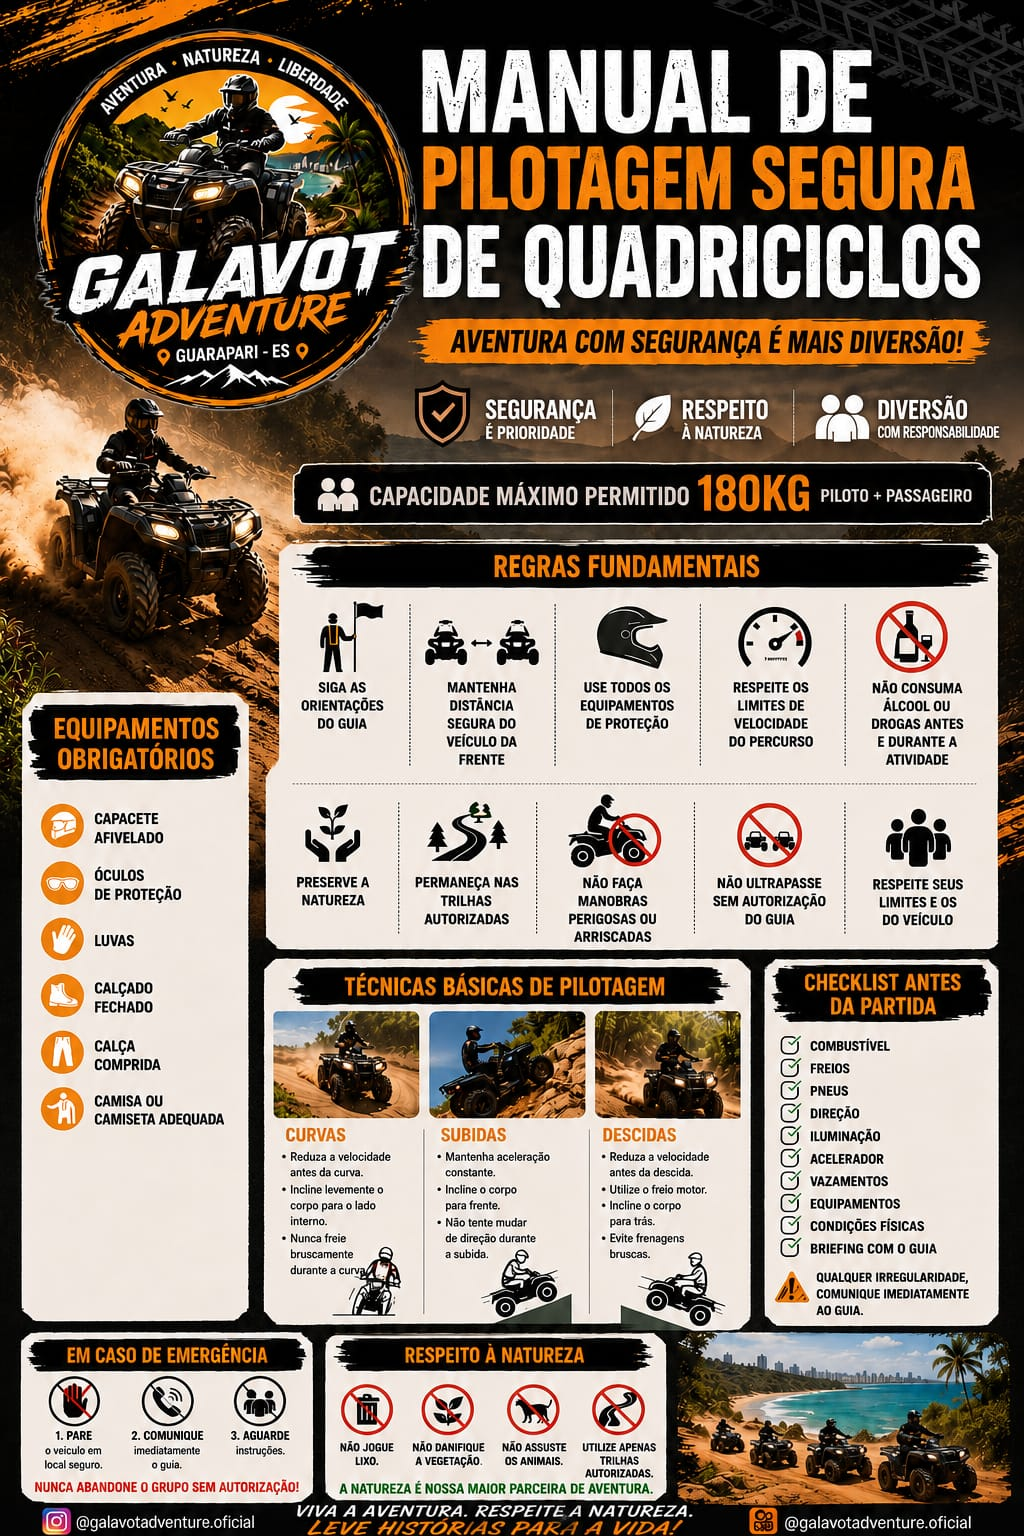
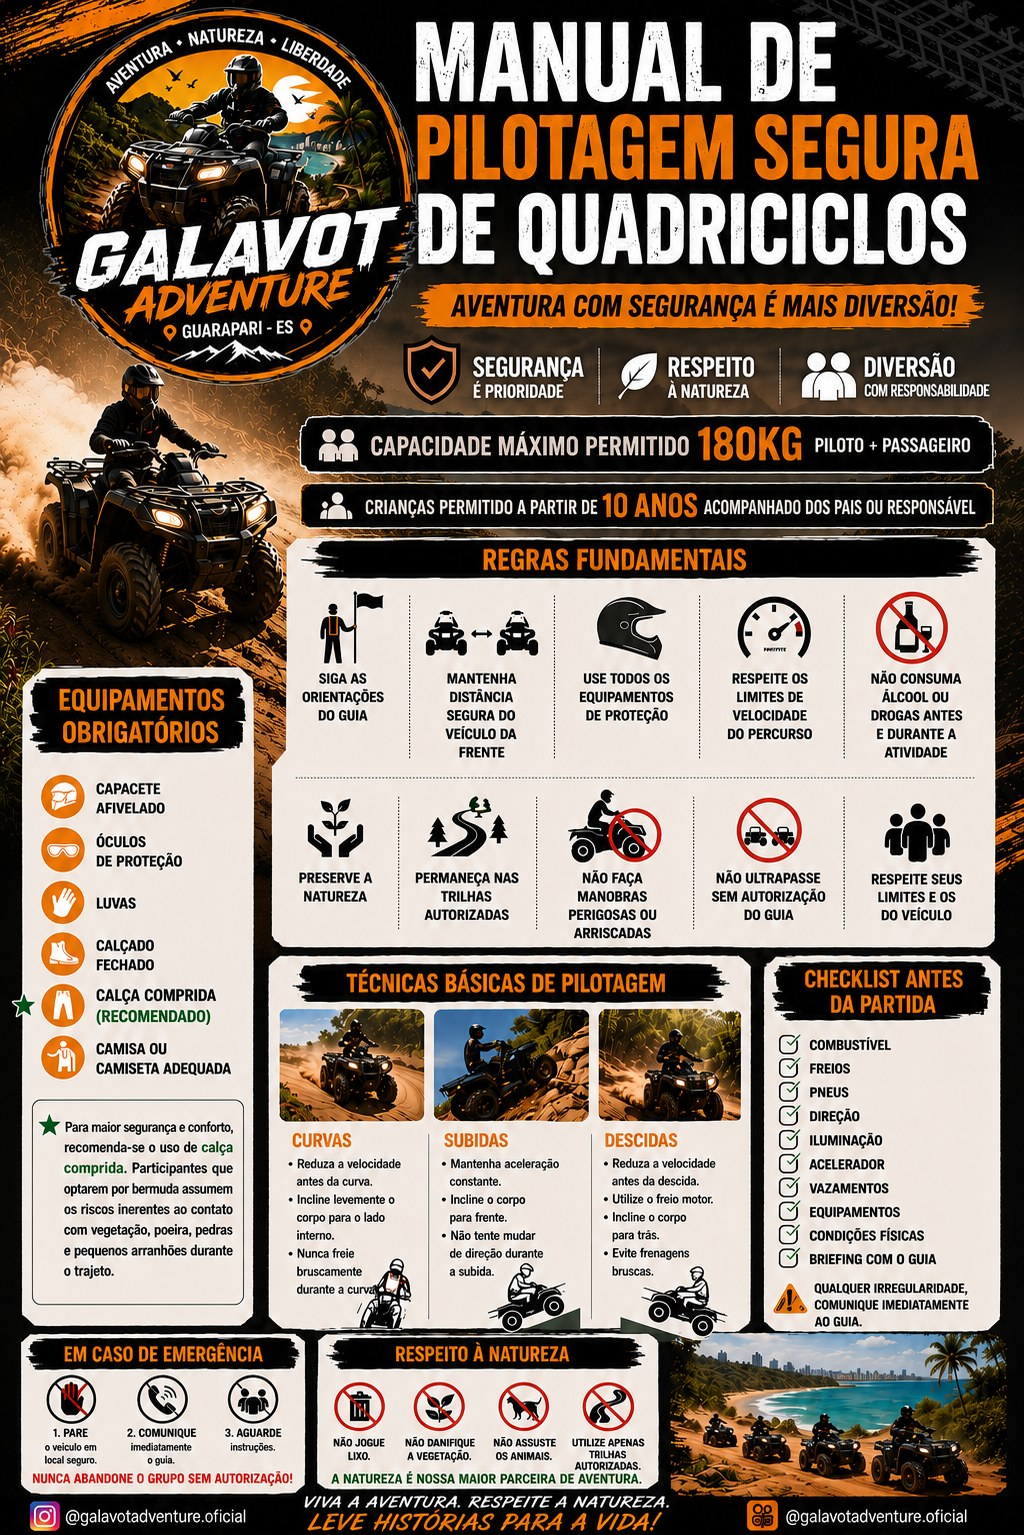
Atualizar manual, horarios (saida 9h/13h, duracao 3-4h), regra de idade 10+, e lancar FAQ + mapa interativo da rota

diff --git a/src/pages/Faq.jsx b/src/pages/Faq.jsx
@@ -1,0 +1,86 @@
+import React, { useState } from "react";
+import { ChevronDown, HelpCircle } from "lucide-react";
+import { TopBar } from "../components/UI.jsx";
+
+// Perguntas frequentes — conteúdo baseado no Manual de Pilotagem Segura e
+// no Termo de Responsabilidade oficiais da Galavot Adventure (regras de
+// segurança, capacidade de peso, idade mínima, emergência e respeito à
+// natureza). As perguntas sobre política de operação (chuva, remarcação)
+// seguem o que já foi combinado com o Sidnei — revisar se mudar.
+const FAQ_ITEMS = [
+  {
+    q: "Preciso de CNH para pilotar o quadriciclo?",
+    a: "Sim. Para pilotar é obrigatório apresentar CNH válida no check-in. Quem for de garupa não precisa de habilitação.",
+  },
+  {
+    q: "Qual a idade mínima para participar?",
+    a: "A partir de 10 anos, sempre acompanhado dos pais ou responsável durante todo o passeio.",
+  },
+  {
+    q: "Qual o peso máximo permitido?",
+    a: "180kg no total, somando piloto + passageiro. Essa capacidade é verificada antes da saída.",
+  },
+  {
+    q: "Quanto tempo dura o passeio e que horas começa?",
+    a: "O passeio Matinal sai a partir das 9h e o Vespertino a partir das 13h. A duração varia de 3h a 4h, dependendo do ritmo do grupo.",
+  },
+  {
+    q: "E se chover no dia do passeio?",
+    a: "O passeio acontece normalmente com chuva fraca a moderada — faz parte da aventura! Em caso de temporal ou risco real de segurança, o passeio é remarcado sem custo.",
+  },
+  {
+    q: "Posso cancelar ou remarcar minha reserva?",
+    a: "Sim, é só chamar no WhatsApp com antecedência que a gente remarca sem custo adicional.",
+  },
+  {
+    q: "Quais são as regras de segurança durante o passeio?",
+    a: "Seguir sempre as orientações do guia, manter distância segura do quadriciclo da frente, respeitar os limites de velocidade do percurso, não fazer manobras perigosas ou arriscadas, não ultrapassar sem autorização do guia e não consumir álcool ou drogas antes ou durante a atividade.",
+  },
+  {
+    q: "O que fazer em caso de emergência?",
+    a: "Pare o veículo em local seguro, comunique imediatamente o guia e aguarde instruções. Nunca abandone o grupo sem autorização.",
+  },
+  {
+    q: "Existe alguma regra de respeito à natureza?",
+    a: "Sim: não jogar lixo nas trilhas, não danificar a vegetação, não assustar os animais e utilizar apenas as trilhas autorizadas.",
+  },
+];
+
+export default function Faq() {
+  const [openIndex, setOpenIndex] = useState(null);
+
+  return (
+    <div className="flex-1 overflow-y-auto bg-charcoal flex flex-col">
+      <TopBar title="PERGUNTAS FREQUENTES" showBack />
+      <div className="px-4 pb-6 flex flex-col gap-2.5">
+        {FAQ_ITEMS.map((item, i) => {
+          const open = openIndex === i;
+          return (
+            <div key={i} className="rounded-xl bg-stone border border-hline overflow-hidden">
+              <button
+                onClick={() => setOpenIndex(open ? null : i)}
+                className="w-full flex items-center justify-between gap-3 px-4 py-3.5 text-left"
+              >
+                <span className="flex items-start gap-2.5 text-[13px] font-semibold text-cream leading-snug">
+                  <HelpCircle size={15} color="#F2600C" className="flex-shrink-0 mt-0.5" />
+                  {item.q}
+                </span>
+                <ChevronDown
+                  size={16}
+                  color="#F2600C"
+                  className="flex-shrink-0 transition-transform duration-200"
+                  style={{ transform: open ? "rotate(180deg)" : "rotate(0deg)" }}
+                />
+              </button>
+              {open && (
+                <div className="px-4 pb-4 pl-[42px]">
+                  <p className="text-[12px] text-muted leading-relaxed">{item.a}</p>
+                </div>
+              )}
+            </div>
+          );
+        })}
+      </div>
+    </div>
+  );
+}

diff --git a/src/components/RouteMapModal.jsx b/src/components/RouteMapModal.jsx
@@ -1,0 +1,74 @@
+import React from "react";
+import { X } from "lucide-react";
+
+// Mapa estilizado (não geográfico) da Rota 04, com as paradas numeradas
+// conectadas por uma trilha pontilhada — complementa a timeline de texto
+// já existente em TourDetail, dando uma visão espacial do roteiro.
+const POINTS = [
+  { x: 40, y: 200 },
+  { x: 80, y: 165 },
+  { x: 135, y: 145 },
+  { x: 185, y: 100 },
+  { x: 225, y: 130 },
+  { x: 260, y: 85 },
+  { x: 215, y: 45 },
+  { x: 145, y: 30 },
+];
+
+export default function RouteMapModal({ stops, onClose }) {
+  const pathD = POINTS.map((p, i) => `${i === 0 ? "M" : "L"} ${p.x} ${p.y}`).join(" ");
+
+  return (
+    <div
+      className="fixed inset-0 z-50 flex flex-col bg-black/95"
+      onClick={onClose}
+      role="dialog"
+      aria-modal="true"
+      aria-label="Mapa da rota"
+    >
+      <div
+        className="flex items-center justify-between px-4 py-3 bg-charcoal border-b border-hline shrink-0"
+        onClick={(e) => e.stopPropagation()}
+      >
+        <span className="font-display text-white text-[17px] tracking-wide">MAPA DA ROTA</span>
+        <button
+          onClick={onClose}
+          className="w-9 h-9 rounded-full flex items-center justify-center bg-stone border border-hline"
+          aria-label="Fechar"
+        >
+          <X size={18} color="#fff" />
+        </button>
+      </div>
+
+      <div className="flex-1 overflow-y-auto px-4 py-4" onClick={(e) => e.stopPropagation()}>
+        <div className="rounded-xl p-3 bg-stone border border-hline">
+          <svg viewBox="0 0 300 240" className="w-full" style={{ height: 200 }}>
+            <path d={pathD} fill="none" stroke="#F2600C" strokeWidth="2.5" strokeDasharray="6 6" strokeLinecap="round" />
+            {POINTS.map((p, i) => (
+              <g key={i}>
+                <circle cx={p.x} cy={p.y} r={10} fill="#151311" stroke="#F2600C" strokeWidth="2" />
+                <text x={p.x} y={p.y + 3.5} textAnchor="middle" fontSize="9" fill="#F5F0E6" fontWeight="700">
+                  {i + 1}
+                </text>
+              </g>
+            ))}
+          </svg>
+        </div>
+
+        <div className="flex flex-col gap-2.5 mt-4">
+          {stops.map((s, i) => (
+            <div key={i} className="flex items-start gap-3">
+              <div className="w-6 h-6 rounded-full flex items-center justify-center bg-stoneLight border border-hline text-orange text-[10px] font-bold flex-shrink-0 mt-0.5">
+                {i + 1}
+              </div>
+              <div>
+                <div className="text-[13px] font-semibold text-cream">{s.title}</div>
+                <div className="text-[11px] text-muted leading-relaxed mt-0.5">{s.desc}</div>
+              </div>
+            </div>
+          ))}
+        </div>
+      </div>
+    </div>
+  );
+}

diff --git a/src/pages/TourDetail.jsx b/src/pages/TourDetail.jsx
@@ -1,9 +1,10 @@
 import React, { useState } from "react";
 import { useParams, useNavigate } from "react-router-dom";
-import { Mountain, Minus, Plus, Clock, MapPin, Gauge, Check, X, Map } from "lucide-react";
+import { Mountain, Minus, Plus, Clock, MapPin, Gauge, Check, X, Map, Compass } from "lucide-react";
 import { TopBar, TrailProgress, PrimaryButton } from "../components/UI.jsx";
 import Timeline from "../components/Timeline.jsx";
 import PhotoModal from "../components/PhotoModal.jsx";
+import RouteMapModal from "../components/RouteMapModal.jsx";
 import Reveal from "../components/Reveal.jsx";
 import { TOURS, ROUTE_STOPS, ROUTE_INFO } from "../data.js";
 import { useBooking } from "../context/BookingContext.jsx";
@@ -51,13 +52,22 @@ export default function TourDetail() {
           </div>
         </div>
 
-        <button
-          onClick={() => setLightbox("map")}
-          className="w-full flex items-center justify-center gap-2 rounded-lg py-2.5 mt-3 bg-stone border border-hline"
-        >
-          <Map size={15} color="#F2600C" />
-          <span className="text-[12px] font-semibold text-cream">Ver rota completa</span>
-        </button>
+        <div className="flex gap-2 mt-3">
+          <button
+            onClick={() => setLightbox("map")}
+            className="flex-1 flex items-center justify-center gap-2 rounded-lg py-2.5 bg-stone border border-hline"
+          >
+            <Map size={15} color="#F2600C" />
+            <span className="text-[12px] font-semibold text-cream">Ver rota completa</span>
+          </button>
+          <button
+            onClick={() => setLightbox("interactiveMap")}
+            className="flex-1 flex items-center justify-center gap-2 rounded-lg py-2.5 bg-stone border border-hline"
+          >
+            <Compass size={15} color="#F2600C" />
+            <span className="text-[12px] font-semibold text-cream">Mapa interativo</span>
+          </button>
+        </div>
 
         <div className="font-display text-muted text-sm tracking-wide mt-5">O ROTEIRO</div>
         <div className="mt-2">
@@ -128,6 +138,9 @@ export default function TourDetail() {
       )}
       {lightbox === "map" && (
         <PhotoModal src="/fotos/mapa-roteiro.jpg" alt="Roteiro completo do passeio" onClose={() => setLightbox(null)} />
+      )}
+      {lightbox === "interactiveMap" && (
+        <RouteMapModal stops={timelineSteps} onClose={() => setLightbox(null)} />
       )}
     </div>
   );

diff --git a/src/data.js b/src/data.js
@@ -2,8 +2,8 @@ export const TOURS = [
   {
     id: "matinal",
     name: "PASSEIO MATINAL",
-    time: "09:00 – 12:00",
-    duration: "3h",
+    time: "A partir das 9h",
+    duration: "3h a 4h",
     level: "Iniciante",
     price: 350,
     maxQuadriciclos: 5,
@@ -15,13 +15,14 @@ export const TOURS = [
       "Equipamentos de segurança (capacete e afins)",
       "Fotos registradas durante o passeio",
     ],
-    weight: "Valor por quadriciclo (até 2 pessoas). O valor não altera caso vá apenas 1 pessoa. Peso máximo permitido: 180kg (piloto + passageiro).",
+    weight:
+      "Valor por quadriciclo (até 2 pessoas). O valor não altera caso vá apenas 1 pessoa. Peso máximo permitido: 180kg (piloto + passageiro). Crianças a partir de 10 anos podem participar, acompanhadas dos pais ou responsável.",
   },
   {
     id: "vespertino",
     name: "PASSEIO VESPERTINO",
-    time: "13:00 – 17:00",
-    duration: "4h",
+    time: "A partir das 13h",
+    duration: "3h a 4h",
     level: "Iniciante",
     price: 350,
     maxQuadriciclos: 5,
@@ -33,7 +34,8 @@ export const TOURS = [
       "Equipamentos de segurança (capacete e afins)",
       "Fotos registradas durante o passeio",
     ],
-    weight: "Valor por quadriciclo (até 2 pessoas). O valor não altera caso vá apenas 1 pessoa. Peso máximo permitido: 180kg (piloto + passageiro).",
+    weight:
+      "Valor por quadriciclo (até 2 pessoas). O valor não altera caso vá apenas 1 pessoa. Peso máximo permitido: 180kg (piloto + passageiro). Crianças a partir de 10 anos podem participar, acompanhadas dos pais ou responsável.",
   },
 ];
 
@@ -51,7 +53,7 @@ export const ROUTE_STOPS = [
 ];
 
 export const ROUTE_INFO = {
-  duration: "4 horas",
+  duration: "3h a 4h",
   distance: "15 km",
   level: "4 de 5",
   included: ["Quadriciclo", "Capacete", "Guia", "Suporte mecânico durante o passeio", "Fotos (registradas durante o passeio)"],

diff --git a/src/pages/Profile.jsx b/src/pages/Profile.jsx
@@ -1,6 +1,6 @@
 import React, { useState } from "react";
 import { useNavigate } from "react-router-dom";
-import { Phone, Instagram, Handshake, ChevronRight, Download, CheckCircle2 } from "lucide-react";
+import { Phone, Instagram, Handshake, ChevronRight, Download, CheckCircle2, HelpCircle } from "lucide-react";
 import { TopBar, Logo } from "../components/UI.jsx";
 import InstallInstructionsModal from "../components/InstallInstructionsModal.jsx";
 import { usePWAInstall } from "../hooks/usePWAInstall.js";
@@ -82,8 +82,17 @@ export default function Profile() {
         </div>
 
         <button
-          onClick={() => navigate("/parceiro")}
+          onClick={() => navigate("/faq")}
           className="w-full flex items-center gap-3 rounded-lg px-4 py-3 bg-stone border border-hline mt-6"
+        >
+          <HelpCircle size={16} color="#F2600C" />
+          <span className="text-[13px] text-cream flex-1 text-left">Perguntas Frequentes</span>
+          <ChevronRight size={16} color="#B7AFA2" />
+        </button>
+
+        <button
+          onClick={() => navigate("/parceiro")}
+          className="w-full flex items-center gap-3 rounded-lg px-4 py-3 bg-stone border border-hline mt-2"
         >
           <Handshake size={16} color="#F2600C" />
           <span className="text-[13px] text-cream flex-1 text-left">Login / Parceiro</span>

diff --git a/src/App.jsx b/src/App.jsx
@@ -16,6 +16,7 @@ import AdminDashboard from "./pages/AdminDashboard.jsx";
 import LinkHub from "./pages/LinkHub.jsx";
 import PartnerLogin from "./pages/PartnerLogin.jsx";
 import PartnerDashboard from "./pages/PartnerDashboard.jsx";
+import Faq from "./pages/Faq.jsx";
 
 function Shell() {
   const location = useLocation();
@@ -39,6 +40,7 @@ function Shell() {
         <Route path="/links" element={<LinkHub />} />
         <Route path="/parceiro" element={<PartnerLogin />} />
         <Route path="/parceiro/painel" element={<PartnerDashboard />} />
+        <Route path="/faq" element={<Faq />} />
       </Routes>
       {showNav && <BottomNav />}
     </div>

diff --git a/src/pages/BookingDateTime.jsx b/src/pages/BookingDateTime.jsx
@@ -58,7 +58,7 @@ export default function BookingDateTime() {
           <Clock size={16} color="#F2600C" />
           <div>
             <div className="font-display text-white text-[16px]">{tour.name}</div>
-            <div className="text-[11px] text-muted">Horário fixo: {tour.time}</div>
+            <div className="text-[11px] text-muted">Saída: {tour.time} · Duração: {tour.duration}</div>
           </div>
         </div>
 